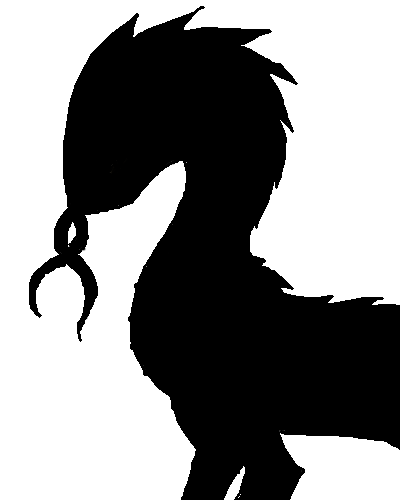
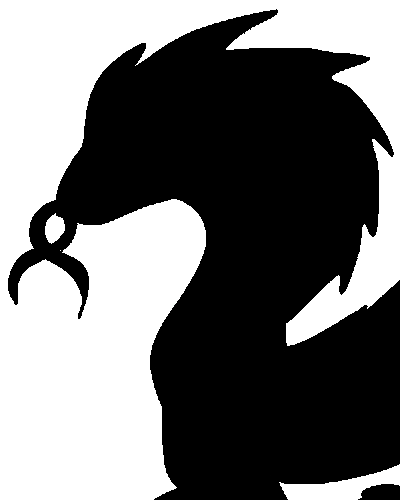
Added Talvine images, new Gleaming Shoal images, fixed cursor changing when over transparent parts of clickables

diff --git a/src/objects/NPC.js b/src/objects/NPC.js
@@ -26,6 +26,9 @@ function NPC(game, x, y, id, height, width) {
   this.events.onInputDown.add(click, this);
   this.events.onInputOver.add(mouseover, this);
   this.events.onInputOut.add(mouseout, this);
+
+  this.input.pixelPerfectOver = true;   // checks pixels so that collision only happens with non-transparent areas
+                                        // computationally expensive, but maybe necessary for realism purposes?
 }
 
 NPC.prototype = Object.create(Phaser.Sprite.prototype);

diff --git a/src/objects/Clickable.js b/src/objects/Clickable.js
@@ -25,6 +25,9 @@ function Clickable(game, x, y, id, height, width) {
   this.events.onInputDown.add(click, this);
   this.events.onInputOver.add(mouseover, this);
   this.events.onInputOut.add(mouseout, this);
+
+  this.input.pixelPerfectOver = true;   // checks pixels so that collision only happens with non-transparent areas
+                                        // computationally expensive, but maybe necessary for realism purposes?
 }
 
 function click() {

diff --git a/src/objects/Placeable.js b/src/objects/Placeable.js
@@ -27,6 +27,9 @@ function Placeable(game, x, y, id, height, width) {
   this.events.onInputDown.add(click, this);
   this.events.onInputOver.add(mouseover, this);
   this.events.onInputOut.add(mouseout, this);
+
+  this.input.pixelPerfectOver = true;   // checks pixels so that collision only happens with non-transparent areas
+                                        // computationally expensive, but maybe necessary for realism purposes?
 }
 
 function click() {
